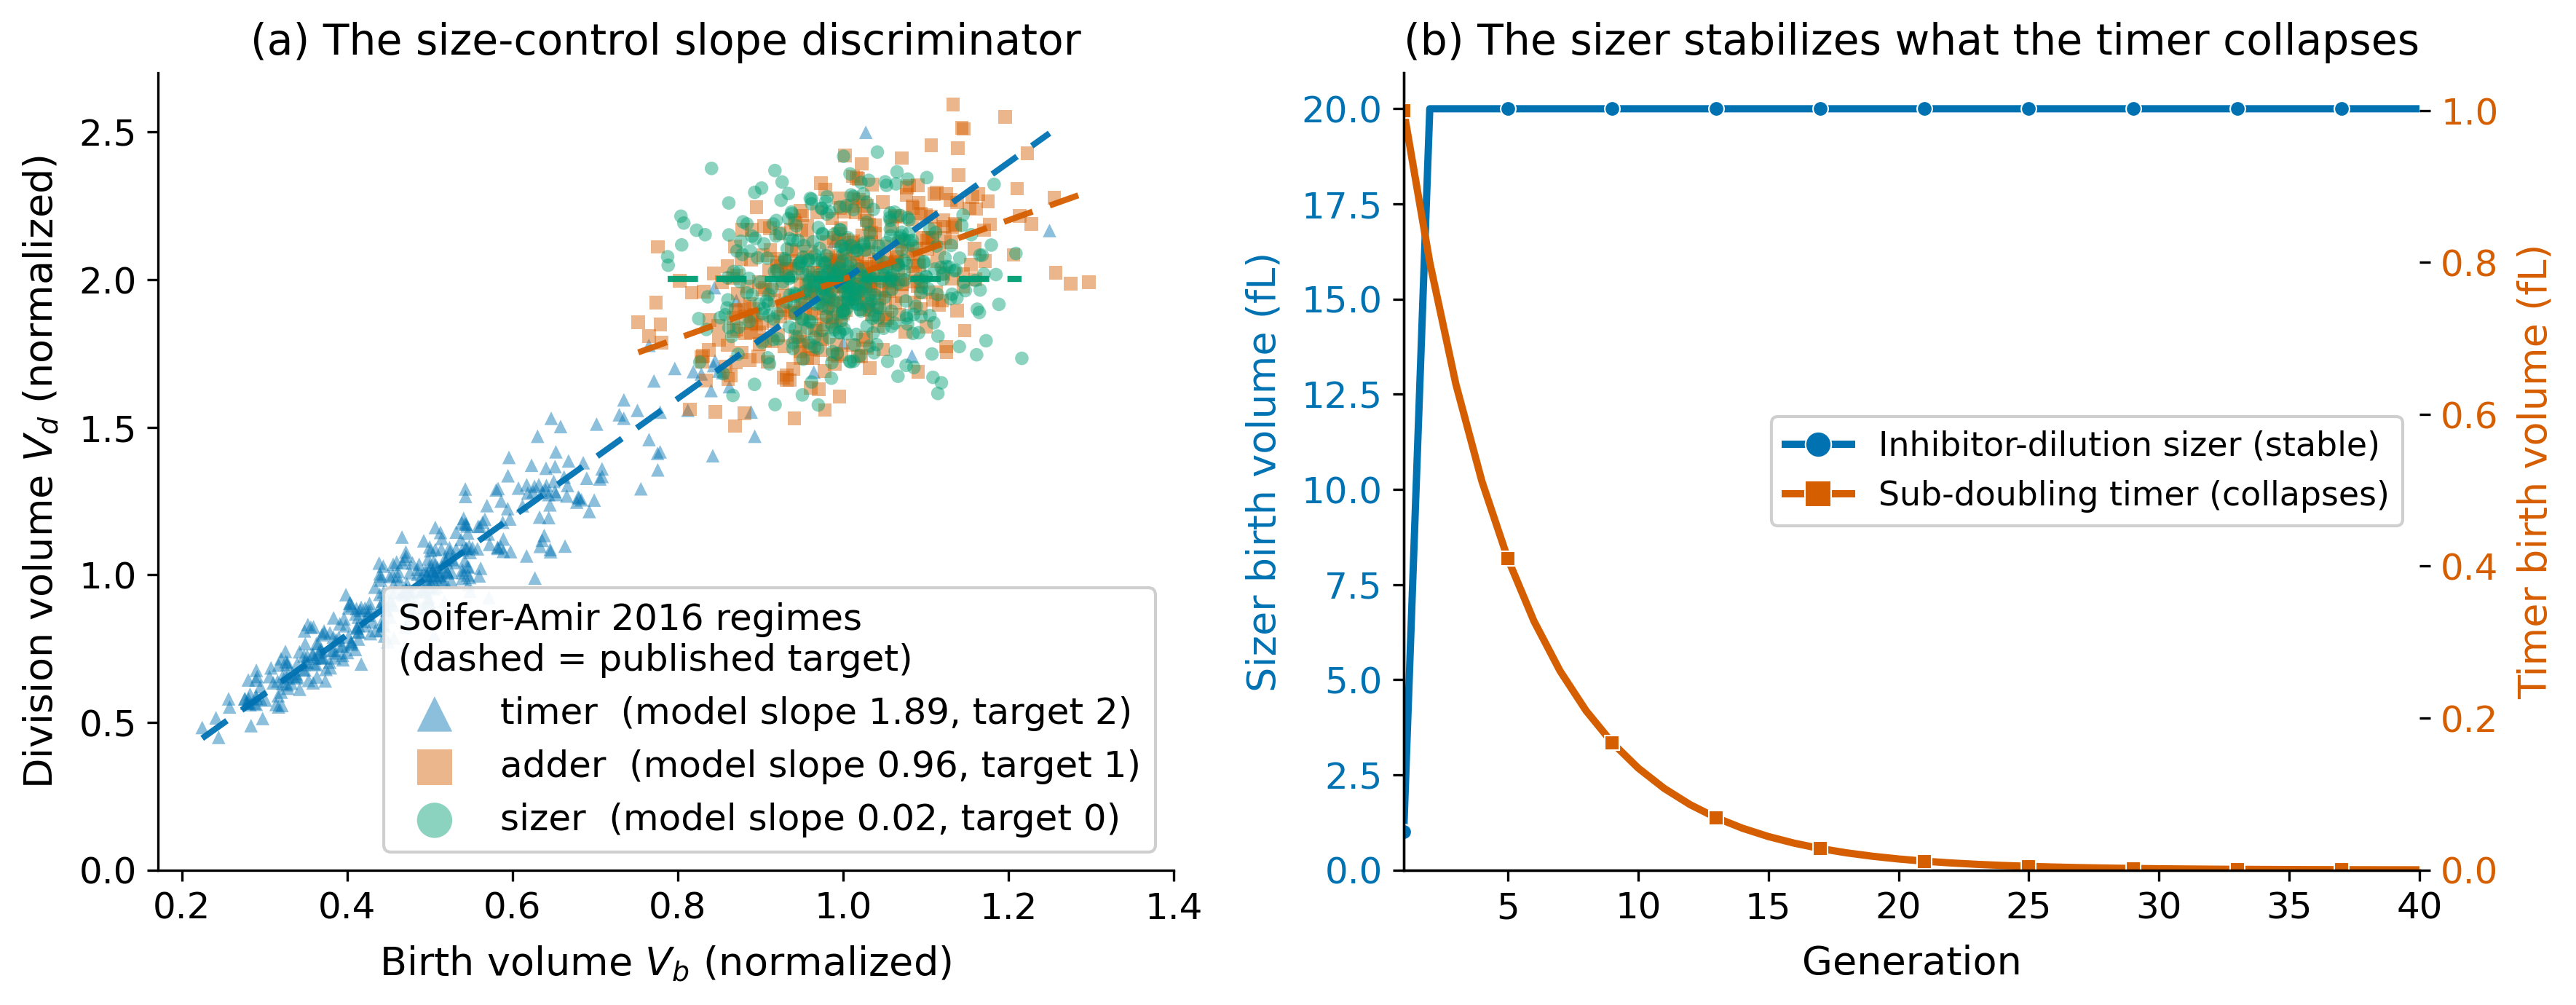
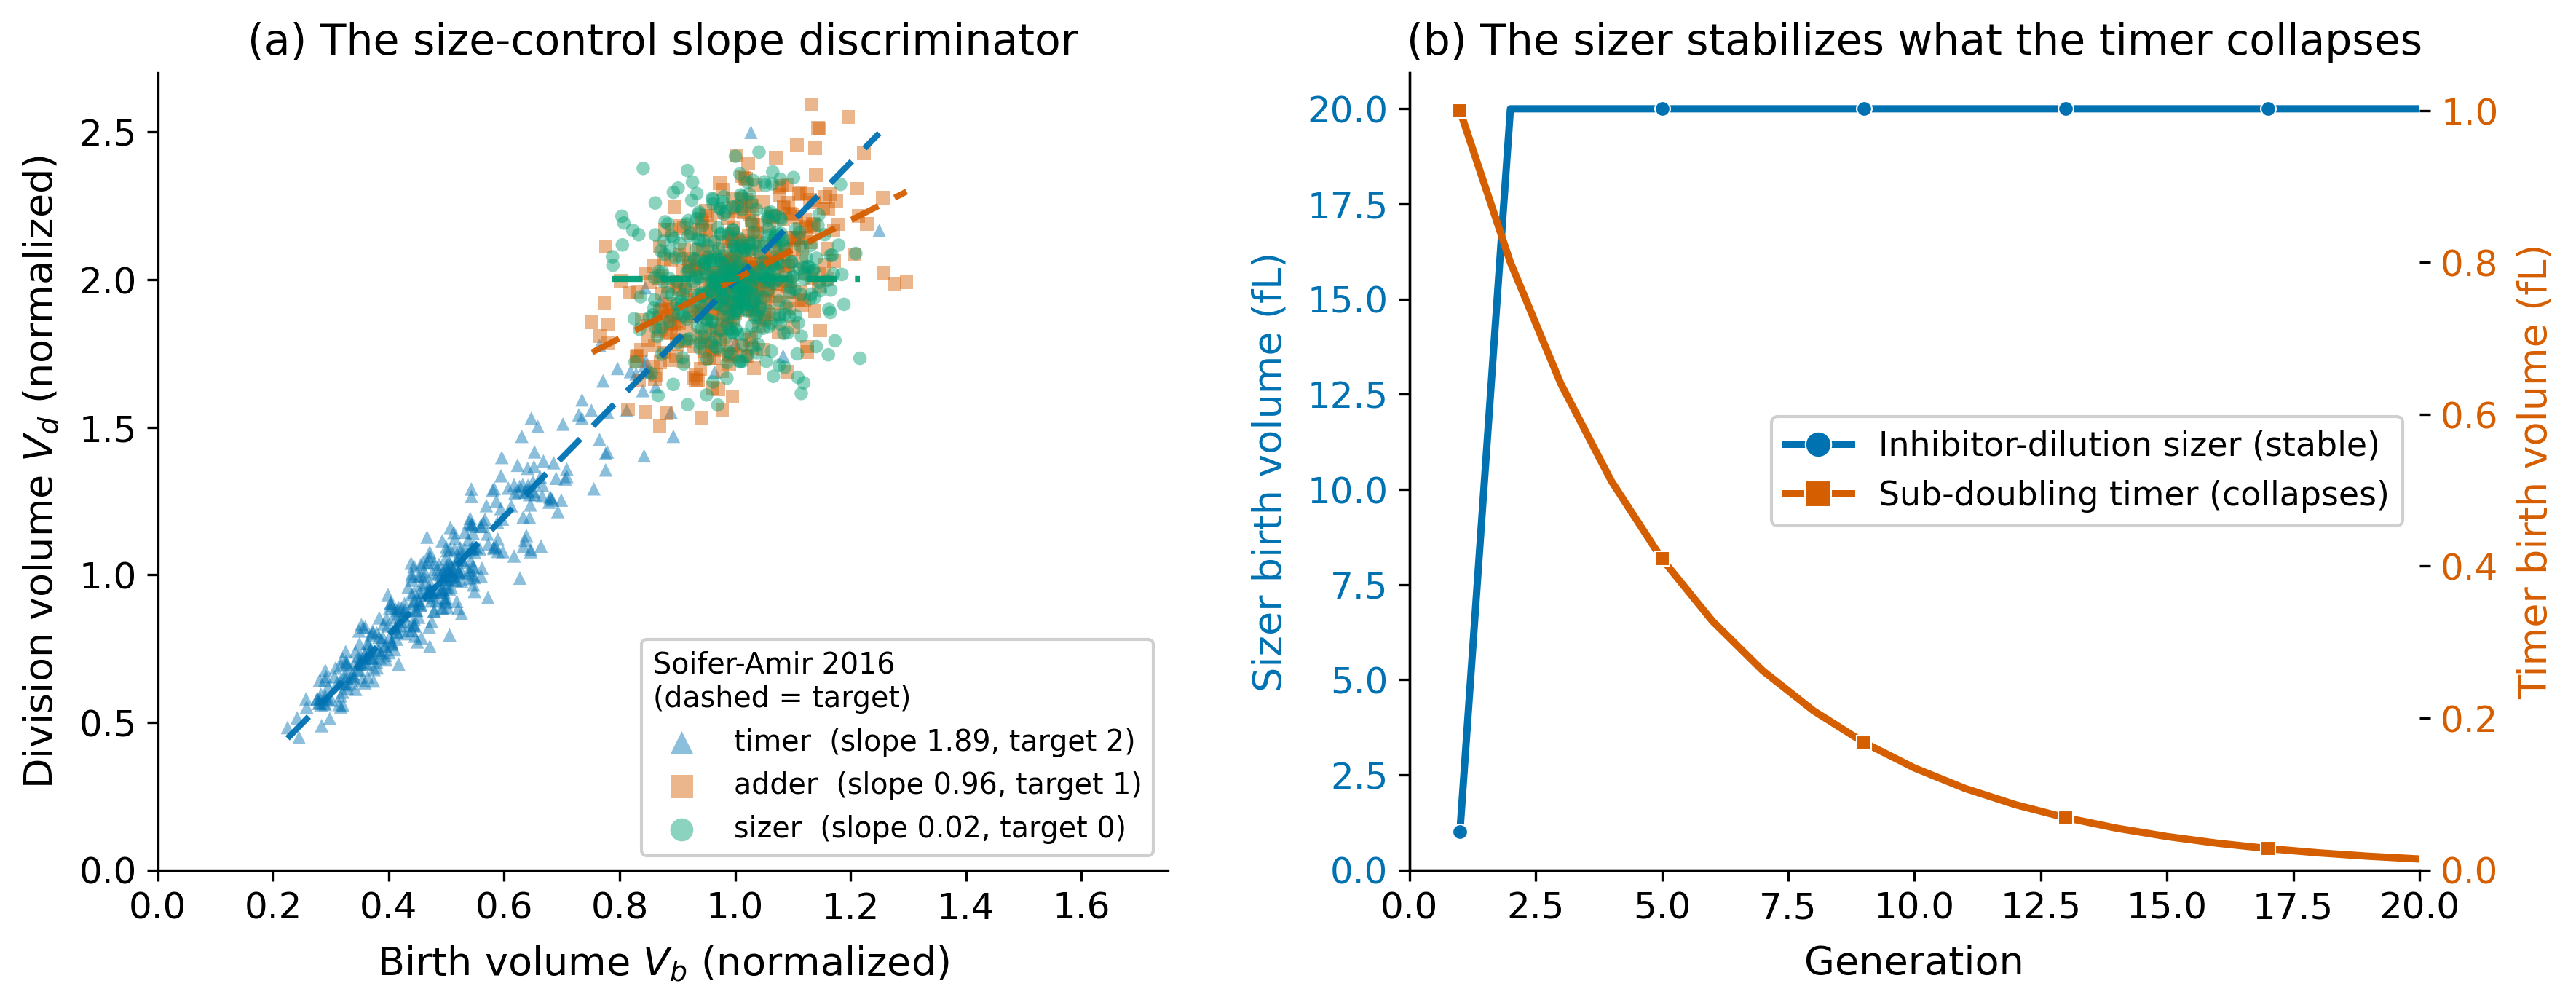
Adjust discriminator legend and axes; raise daughter-RLS panel headroom

diff --git a/analysis/plot_discriminator.py b/analysis/plot_discriminator.py
@@ -53,7 +53,7 @@ def main():
         s = np.polyfit(vb, vd, 1)[0]
         axA.scatter(vb, vd, s=20, color=COL[rule], marker=MRK[rule], alpha=0.45,
                     edgecolors="none", zorder=2,
-                    label=f"{rule}  (model slope {s:.2f}, target {SOIFER[rule]:.0f})")
+                    label=f"{rule}  (slope {s:.2f}, target {SOIFER[rule]:.0f})")
         # reference target line: slope = Soifer-Amir value, anchored at the cloud centroid
         ref = SOIFER[rule]
         xc, yc = vb.mean(), vd.mean()
@@ -64,10 +64,10 @@ def main():
             ylabel=r"Division volume $V_d$ (normalized)",
             title="(a) The size-control slope discriminator")
     axA.set_ylim(bottom=0)  # honest baseline + opens room under the lower-right legend
-    axA.set_xlim(right=1.4)  # cap the birth-volume axis
-    leg = opaque_legend(axA, loc="lower right", markerscale=2.6, fontsize=12,
-                        title="Soifer-Amir 2016 regimes\n(dashed = published target)",
-                        title_fontsize=12)
+    axA.set_xlim(0, 1.75)  # widen so the lower-right legend clears the points
+    leg = opaque_legend(axA, loc="lower right", markerscale=1.7, fontsize=9.5,
+                        title="Soifer-Amir 2016\n(dashed = target)",
+                        title_fontsize=9.5)
     leg._legend_box.align = "left"
 
     # Dual y-axis: the sizer holds near 20 fL while the sub-doubling timer collapses toward 0; on a
@@ -80,7 +80,7 @@ def main():
     axB.tick_params(axis="y", labelcolor=BLUE)
     axB.set_ylim(bottom=0)
     axB.set_title("(b) The sizer stabilizes what the timer collapses")
-    axB.set_xlim(min(gen), max(gen))
+    axB.set_xlim(0, 20)  # the timer has collapsed by ~gen 20; drop the flat tail out to 40
     axBt = axB.twinx()
     axBt.spines["top"].set_visible(False)
     lT, = axBt.plot(gen, tvb, "-", lw=2.4, color=VERM, marker="s", ms=5, markevery=4,

diff --git a/analysis/plot_daughter_rls.py b/analysis/plot_daughter_rls.py
@@ -124,7 +124,7 @@ def main():
                          "daughters of\nold mothers\n(last 10%)"], fontsize=12)
     axB.set_ylabel("Daughter replicative lifespan (divisions)")
     axB.set_title("(b) The rejuvenation deficit", fontsize=13)
-    axB.set_ylim(0, 35)
+    axB.set_ylim(0, 40)
     axB.grid(axis="y", which="major", color="0.9", lw=0.7)
     axB.set_axisbelow(True)
     # Centered over the old-mother bar pair (data x=1.0, the divider between its blue/orange bars),